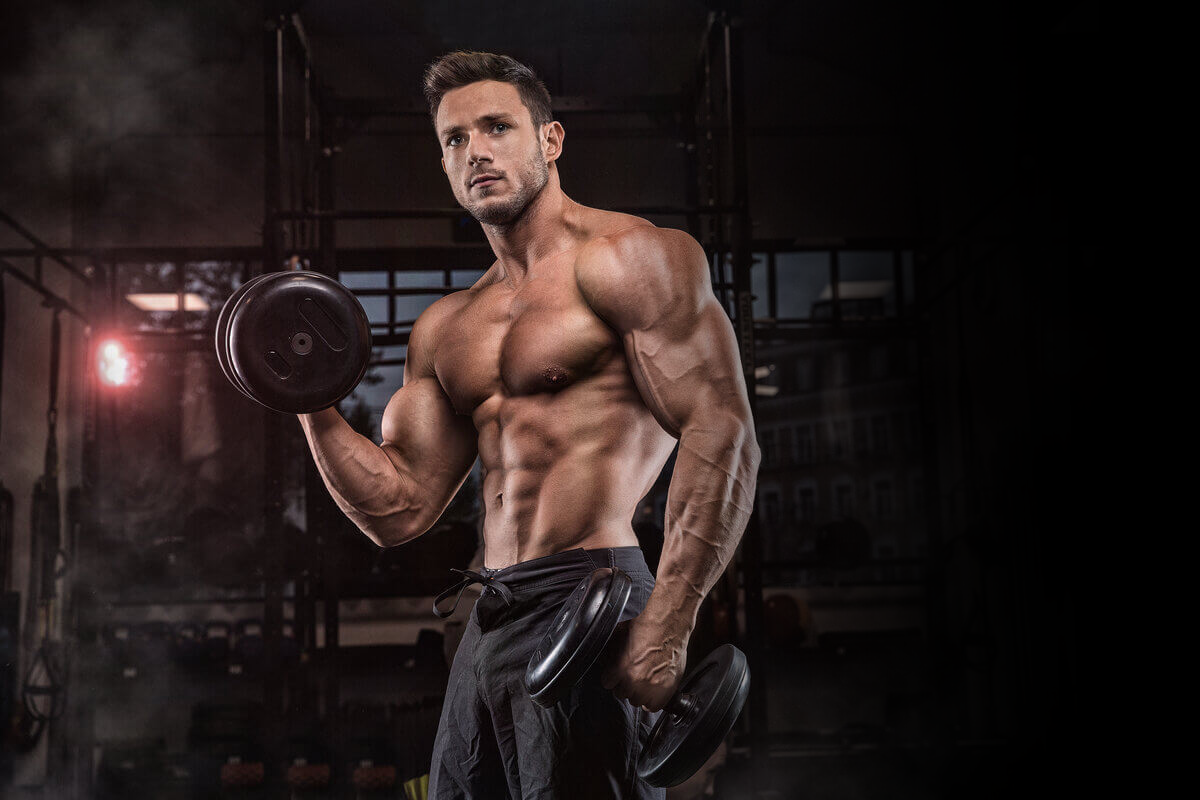
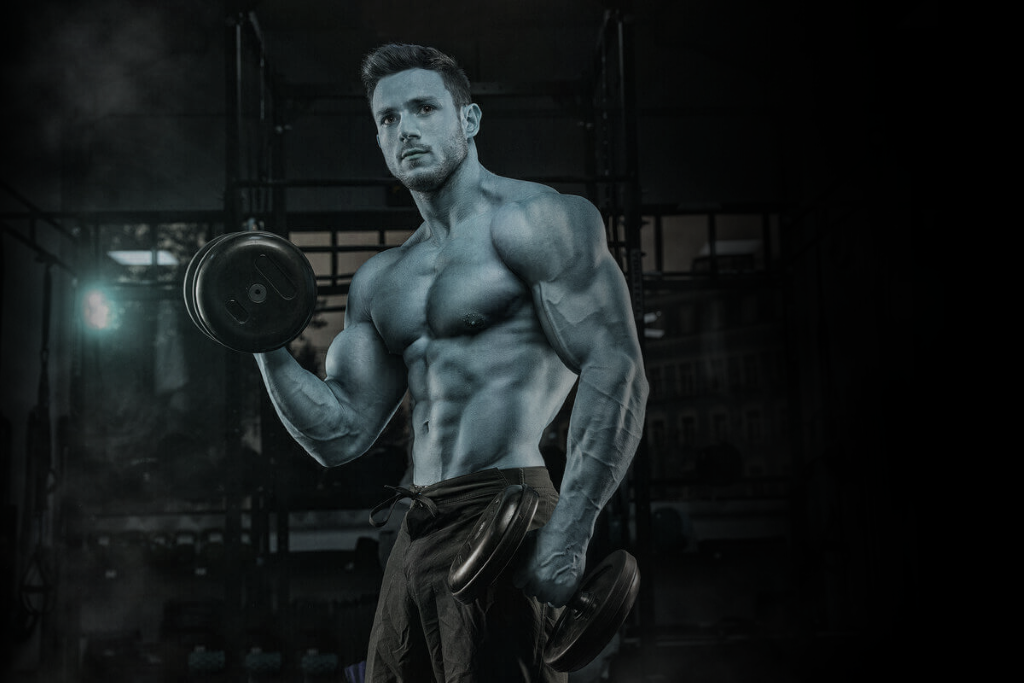
Login Page Finished

diff --git a/cssGym.css b/cssGym.css
@@ -2,7 +2,7 @@ body {
     font-family: Verdana, Geneva, Tahoma, sans-serif;
     font-size: 14px;
     background: var(--cinzaBase);
-    padding: 0.5rem;
+    margin: 0;
     background-image:url(/imagens/texturaBackground.we)
 }
 
@@ -16,6 +16,8 @@ p {
     --preto: #000000;
     --cinzaBase: #505050;
     --azulBase2: #0099ff;
+    --brancoLogin: #fffff0;
+    --azulLogin: #89bcff;
 }
 
 /* Menu principal barra */
@@ -69,6 +71,7 @@ p {
     transition: 0.4s;
 }
 
+/* ---------------------------- Index -----------------------*/
 
 /* imagens Index */
 
@@ -121,7 +124,7 @@ p {
     animation-fill-mode: forwards;
 }
 
-/*section */
+/*section Index*/
 
 section {
     display: flex;
@@ -211,4 +214,170 @@ footer {
     padding: 0.5rem 0rem;
     justify-content: center;
     width: 100%;
+}
+
+/*  ------------------- LOGIN -------------------------- */
+
+.sectionColor{
+    background: var(--preto);
+}
+
+.containerLogin{
+    margin: auto;
+    display: flex;
+    width: 80%;
+    height: 100vh;
+}
+
+.imgLogin{
+    width: 70%;
+    background: url(/imagens/loginBackgroud.png);
+    background-size:cover;
+}
+
+.imgLogin2{
+    width: 30%;
+    padding-top: 2rem;
+}
+
+@keyframes loginAnimation {
+    to {
+        transform: rotate(360deg);
+    }
+}
+
+
+.border1{
+    width: 150px;
+    height: 150px;
+    margin: auto;
+    border: 4px solid #e9e9e9;
+    border-top-color: #004db3;
+    display: flex;
+    align-items: center;
+    justify-content: center;
+    border-radius: 50%;
+    animation: loginAnimation 20s forwards linear infinite;
+}
+
+@keyframes loginAnimation2 {
+    to {
+        transform:rotate(360deg);
+    }
+}
+
+ .border2 {
+    width: 135px;
+    height: 135px;
+    border-radius: 50%;
+    margin: auto;
+    border: 4px solid #e9e9e9;
+    border-top-color: #004db3;
+    animation: loginAnimation2 10s reverse linear infinite;
+ }
+
+ .border2 :last-child{
+    animation: logoStop infinite linear infinite;
+ }
+
+ 
+.logoLogin{
+    background-image: url(/imagens/logo_semborda.png);
+    background-repeat: no-repeat;
+    background-size: contain;
+    background-position: center;
+    width: 100%;
+  
+}
+
+.formAll{
+    margin-top: 2rem;
+    color:var(--brancoLogin);
+    background: transparent;   
+}
+
+.formTittle h2{
+    display:flex ;
+    justify-content: center;
+    align-items: center;
+}
+
+.inputFormat{
+    padding: 1rem;
+    margin: auto 1.5rem;
+    display: flex;
+    justify-content: space-between;
+}
+
+.inputFormat label{
+    color: var(--azulLogin);
+}
+
+.inputFormat input{
+    margin:auto;
+    border-radius: 10px;
+    font-weight: 400;
+    font-size: 0.9rem;
+    width: 70%;
+    background: transparent;
+    border: 2px solid #181818;
+    transition: 0.6s;
+    color: var(--brancoLogin);
+}
+
+.inputFormat input:hover{
+    border-radius: 10px;
+    font-weight: 400;
+    font-size: 0.9rem;
+    width: 80%;
+    background: transparent;
+    border: 2px solid #ebebeb;
+
+    
+}
+
+.inputSubmit{
+    display: flex;
+    align-items: center;
+    justify-content: center;
+    margin: 0.8rem 0;
+}
+
+.inputSubmit input{
+    border: 1px solid var(--brancoLogin);
+    background-color: var(--azulBase);
+    color: var(--brancoLogin);
+    font-weight: bold;
+    font-size: 1rem;
+    border-radius: 5px;
+    cursor: pointer;
+    transition: 0.5s;
+}
+
+.inputSubmit input:hover {
+    background-color: var(--azulBase2);
+    cursor: pointer;
+
+}
+
+.inputFormat3 p{
+    color: var(--azulLogin);
+    font-size: 0.7rem;
+    margin: 0;
+    display: flex;
+    align-items: center;
+    justify-content: center;
+}
+
+.inputFormat3 a:link{
+    text-decoration: none;
+    color: var(--azulLogin);
+}
+
+.inputFormat3 a:visited{
+    color: var(--azulLogin);
+}
+
+.inputFormat3 a p:hover{
+    color: var(--azulBase);
 }

diff --git a/login.html b/login.html
@@ -6,21 +6,40 @@
     <link rel="stylesheet" type="text/css" href="cssGym.css">
 </head>
 
-<body>
-    <header>
-        <nav>
-            <div id="menuMainLogo">
-                <a href="index.html"><img src="imagens/logo_semborda_menu.png"></a>
-                <ul class="menuMainItens">
-                    <li><a href="">Sobre a Over</a></li>
-                    <li><a href="">Unidades</a></li>
-                    <li><a href="">Categoria</a></li>
-                    <li><a href="">Fale Conosco</a></li>
-                    <li><a href="login.html">Meu Cadastro</a></li>
-                </ul>
+<body class="sectionColor">
+    <div class="containerLogin">
+        <div class="imgLogin"></div>
+        <div class="imgLogin2">
+            <div class="logoLogin">
+                <div class="border1">
+                    <div class="border2"></div>
+                </div>
             </div>
-        </nav>
-    </header>
-    <div>
+            <form class="formAll">
+                <div class="formTittle">
+                    <h2>Acessar Minha Conta</h2>
+                </div>
+                <div class="inputFormat">
+                    <input type="text" name="name id" id="name_login" placeholder="Digite seu login aqui">
+                </div>
+                <div class="inputFormat">
+
+                    <input type="password" name="senha" id="passaword_login" placeholder="Digite sua senha aqui">
+                </div>
+                <div class="inputSubmit">
+                    <input type="submit" name="Entrar" id="access_login">
+                </div>
+                <div class="inputFormat3">
+                    <a href="">
+                        <p>Esqueceu sua senha?</p>
+                    </a>
+                    <a href="">
+                        <p>Cadastre-se</p>
+                    </a>
+                </div>
+            </form>
+        </div>
     </div>
 </body>
+
+</html>

diff --git a/faleConosco.html b/faleConosco.html
@@ -16,12 +16,12 @@
                     <li><a href="">Unidades</a></li>
                     <li><a href="">Categoria</a></li>
                     <li><a href="">Fale Conosco</a></li>
-                    <li><a href="">Meu Cadastro</a></li>
+                    <li><a href="login.html">Meu Cadastro</a></li>
                 </ul>
             </div>
         </nav>
     </header>
     <div>
-        
+
     </div>
 </body>
